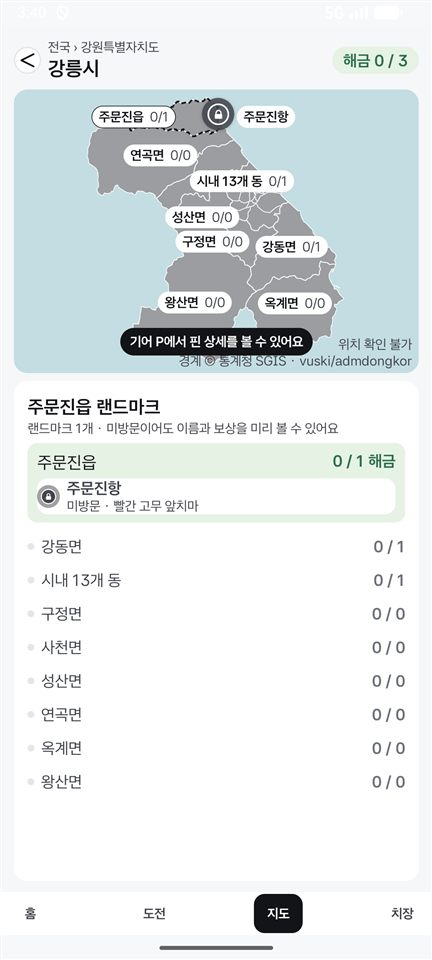
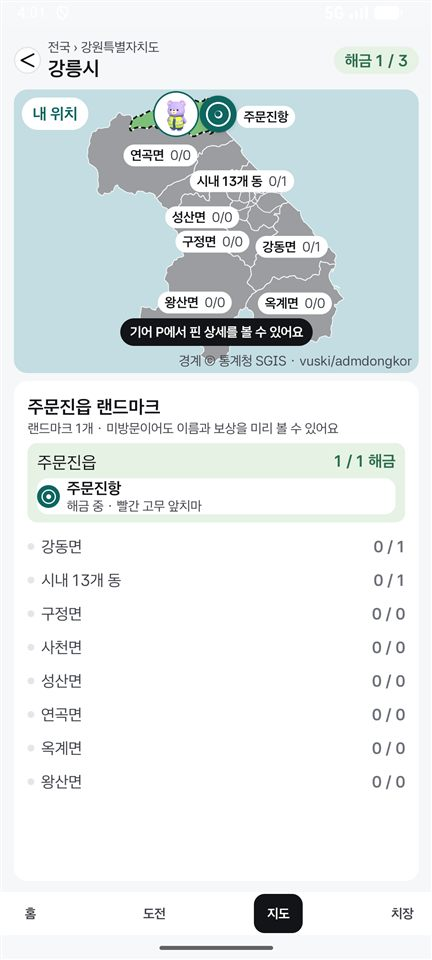
Keep map labels, hint and stop notice clear of each other
Review follow-ups: region labels now also avoid pin labels, the Full
hint hides while the detail card sits over it, the Split stop notice
sits above the attribution text, and the avatar keeps its spot while
that spot stays free so it does not jump as the car moves.

diff --git a/app/src/main/java/com/example/roro/ui/screens/MapScreen.kt b/app/src/main/java/com/example/roro/ui/screens/MapScreen.kt
@@ -597,12 +597,13 @@ private fun RegionMap(
                 }
             }
         }
-        val labels = remember(regions, district, camera, w, h, measurer, labelStyle, split, sceneId, overlays) {
+        val labels = remember(regions, district, camera, w, h, measurer, labelStyle, split, sceneId, overlays, pinLabels) {
             val gap = with(density) { KagomSpace.s4.toPx() }
             val inset = with(density) { KagomSpace.s10.toPx() }
             val radius = with(density) { 26.dp.toPx() }
             val placed = mutableListOf<RegionLabel>()
-            val keepClear = pinLocations.values.map { Rect(it - Offset(radius, radius), Size(radius * 2, radius * 2)) } + overlays
+            val keepClear = pinLocations.values.map { Rect(it - Offset(radius, radius), Size(radius * 2, radius * 2)) } +
+                pinLabels.map { it.rect } + overlays
             val ordered = regions.sortedWith(
                 compareByDescending<RegionProgress> { it.region.id == district?.region?.id }
                     .thenByDescending { it.landmarks.isNotEmpty() }
@@ -725,6 +726,7 @@ private fun RegionMap(
             val diameter = with(density) { 68.dp.toPx() }
             // 카곰은 위치점 둘레에서 이름표·핀·지도 위 글을 가리지 않는 첫 자리에 둔다 (위 → 옆 → 대각선 → 아래, 가까운 쪽부터).
             // 다 막혀 있으면 가장 덜 가리는 자리. 단계 이동 중에 자리가 바뀌지 않게 도착한 시점 기준으로 정한다
+            val lastShift = remember(camera) { arrayOfNulls<Offset>(1) }
             val avatarShift = remember(here, camera, w, h, labels, pinLabels, overlays) {
                 val at = point(here.lon.toFloat(), here.lat.toFloat())
                 val pinRadius = with(density) { 24.dp.toPx() }
@@ -737,11 +739,15 @@ private fun RegionMap(
                 )
                 // 둘째 거리는 위치점에 핀이 있을 때 그 핀 바깥이다 (차가 랜드마크에 도착한 경우). 셋째는 이름표가 몰린 곳에서 한 칸 더
                 val spots = listOf(near, near + pinRadius, near + 2 * pinRadius).flatMap { reach -> directions.map { it * reach } }
-                spots.minBy { shift ->
+                fun covered(shift: Offset): Float {
                     val box = Rect(at + shift, diameter / 2)
-                    if (box.left < 0f || box.top < 0f || box.right > w || box.bottom > h) Float.MAX_VALUE
-                    else blocked.filter { it.overlaps(box) }.map { it.intersect(box) }.sumOf { (it.width * it.height).toDouble() }.toFloat()
+                    if (box.left < 0f || box.top < 0f || box.right > w || box.bottom > h) return Float.MAX_VALUE
+                    return blocked.filter { it.overlaps(box) }.map { it.intersect(box) }
+                        .sumOf { (it.width * it.height).toDouble() }.toFloat()
                 }
+                val best = spots.minBy(::covered)
+                // 차가 움직이는 동안 카곰이 이리저리 튀지 않게, 쓰던 자리가 새로 고른 자리만큼 비어 있으면 그대로 둔다
+                (lastShift[0]?.takeIf { covered(it) <= covered(best) } ?: best).also { lastShift[0] = it }
             }
             Box(
                 Modifier.offset {
@@ -795,13 +801,16 @@ private fun RegionMap(
             if (locationStatus != null) Text(locationStatus, style = KagomType.Caption14, color = KagomColor.Text.secondary)
             Text(attribution, style = KagomType.Caption14, color = KagomColor.Text.secondary)
         }
-        if (!split) Text(
+        val reward = Items.byId(selectedPin?.landmark?.rewardItemId)
+        // 위쪽 핀의 상세 카드는 지도 아래쪽에 뜬다. 그동안은 안내 글을 숨긴다 (카드가 안내 글의 끝을 덮었다)
+        val detailOverHint = gearP && !moving && reward != null &&
+            selectedPin?.let { pinLocations.getValue(it.landmark.id).y < h / 2 } == true
+        if (!split && !detailOverHint) Text(
             hint, Modifier.align(Alignment.BottomStart).padding(KagomSpace.s24)
                 .background(KagomColor.Surface.inverse, RoundedCornerShape(KagomRadius.full))
                 .padding(horizontal = KagomSpace.s16, vertical = KagomSpace.s10),
             style = KagomType.Caption14, color = KagomColor.Text.inverse,
         )
-        val reward = Items.byId(selectedPin?.landmark?.rewardItemId)
         if (!moving && selectedPin != null && reward != null) {
             val pinOnLowerHalf = pinLocations.getValue(selectedPin.landmark.id).y >= h / 2
             val detailPosition = if (pinOnLowerHalf) {
@@ -821,9 +830,12 @@ private fun RegionMap(
                     itemId = reward.id,
                 )
             } else if (split) {
-                // Full은 왼쪽 아래 안내가 주행 중에 같은 말을 하고 있어 따로 띄우지 않는다 (둘이 겹쳐 보였다)
+                // Full은 왼쪽 아래 안내가 주행 중에 같은 말을 하고 있어 따로 띄우지 않는다 (둘이 겹쳐 보였다).
+                // 아래쪽에 뜰 때는 오른쪽 아래 위치 안내·출처 글(overlays의 첫 칸) 위로 올린다 (그 글과 겹쳤다)
+                val noticePosition = if (pinOnLowerHalf) detailPosition else Modifier.align(Alignment.BottomCenter)
+                    .padding(bottom = with(density) { overlays.first().height.toDp() } + KagomSpace.s4)
                 Text("기어 P에서 핀 상세를 볼 수 있어요",
-                    detailPosition
+                    noticePosition
                         .background(KagomColor.Surface.inverse, RoundedCornerShape(KagomRadius.full))
                         .padding(horizontal = 14.dp, vertical = 8.dp),
                     style = KagomType.Caption14Strong, color = KagomColor.Text.inverse)

diff --git a/docs/verification/map-overlap-pending-reward/README.md b/docs/verification/map-overlap-pending-reward/README.md
@@ -28,11 +28,13 @@
 - 전국·강원·강릉 지도에서 구획 이름표, 핀, 핀 이름표, 카곰, 지도 위 글이 서로 겹치지 않는다.
 - 주행 중(기어 D) 방문: 지도 핀·핀 이름표·목록이 모두 해금 중으로 나오고, 기어 P에서 POP-03을 닫으면 방문 완료로 바뀐다.
 - 주행 중 안내: Full은 왼쪽 아래 안내가 "기어 P에서 핀 상세를 볼 수 있어요. …"로 바뀌고 핀을 눌러도 다른 안내가 겹쳐 뜨지 않는다. Split은 지도에 안내 글이 없어 핀을 누르면 전처럼 정차 안내가 뜬다. 기어 P로 돌아오면 상세 카드가 열린다.
+- 코드 리뷰 뒤 고친 것 (2026-11-11 오후, 같은 에뮬레이터에서 다시 확인): 구획 이름표가 핀 이름표도 피한다. 기어 P에서 위쪽 핀의 상세 카드가 떠 있는 동안 Full 안내 글이 숨는다 (카드가 안내 글 끝을 덮었다). Split 정차 안내가 출처 글 위에 뜬다. 카곰은 쓰던 자리가 비어 있으면 옮기지 않는다 (이것은 코드로만 넣었고 움직이는 위치로 시험하지는 못했다).
 - 터치 범위: 뒤로 버튼과 경로 글자는 그림 바깥 12px 안쪽을 눌러도 동작한다 (`KagomTheme`이 누르는 범위를 64로 넓힌다). 그래서 이 둘의 크기는 바꾸지 않았다.
 
 ## 알려 둘 것
 
 - Split에서 차가 주문진항에 있으면 "주문진읍" 구획 이름표가 숨는다 ("내 위치" 버튼과 핀 사이에 자리가 없다). 구획 이름은 아래 목록 제목에 나온다. Split 지도가 좁아 이름표가 몰리는 문제는 #16의 4번에 남아 있다.
 - 이름표가 몰린 곳에서는 카곰이 위치점에서 조금 떨어진다 (전국 지도의 서울: 이름표 위).
-- 기어 P에서 위쪽 핀의 상세 카드(Full, 폭 520)가 왼쪽 아래 안내 글의 끝을 덮는다. 전부터 있던 것이고 이번에 고치지 않았다.
+- 목록의 "해금 중" 옆에 구획 숫자는 "1 / 1 해금", 지도 이름표는 "✓ 1/1"로 나온다. 숫자와 구획 색은 방문한 순간 바뀌는 것이 원래 동작이라 그대로 두었다.
+- Split에서 주행 중 정차 안내가 아래쪽 구획 이름표를 잠깐 덮을 수 있다 (출처 글과 겹치지 않게 위로 올렸다).
 - 못 본 것: 실차, Pleos Split(841×1210), 랜드마크가 여럿인 구획, 위치가 지도 가장자리에 있을 때.

diff --git a/docs/IMPLEMENTATION.md b/docs/IMPLEMENTATION.md
@@ -120,8 +120,9 @@
 ## 랜드마크 지도 (SCR-05)
 
 - Pleos FusedLocation 좌표에 현재 스킨·표정·장착 아이템을 반영한 카곰을 표시한다. 내 위치 버튼은 해당 시·군 지도로 이동한다. 위치를 확인할 수 없거나 좌표가 지도 범위 밖이면 안내를 표시한다. 좌표는 저장하지 않는다.
-- 카곰은 위치점 둘레(위 → 옆 → 대각선 → 아래, 가까운 쪽부터)에서 구획 이름표·핀·핀 이름표·지도 위 글을 가리지 않는 첫 자리에 둔다. 다 막혀 있으면 가장 덜 가리는 자리다. 차가 랜드마크에 도착해 위치점과 핀이 겹치면 핀 바깥에 둔다.
-- 구획 이름표는 핀과 지도 위 글·버튼(내 위치, 방위, 안내, 위치 안내·출처)의 자리를 피하고, 옮길 자리가 없으면 숨긴다.
+- 카곰은 위치점 둘레(위 → 옆 → 대각선 → 아래, 가까운 쪽부터)에서 구획 이름표·핀·핀 이름표·지도 위 글을 가리지 않는 첫 자리에 둔다. 다 막혀 있으면 가장 덜 가리는 자리다. 차가 움직이는 동안 이리저리 튀지 않게, 쓰던 자리가 새로 고른 자리만큼 비어 있으면 그대로 둔다. 차가 랜드마크에 도착해 위치점과 핀이 겹치면 핀 바깥에 둔다.
+- 구획 이름표는 핀, 핀 이름표, 지도 위 글·버튼(내 위치, 방위, 안내, 위치 안내·출처)의 자리를 피하고, 옮길 자리가 없으면 숨긴다.
+- 지도 아래쪽에 뜨는 것끼리 겹치지 않게: Full에서 위쪽 핀의 상세 카드가 아래에 떠 있는 동안은 왼쪽 아래 안내 글을 숨기고, Split의 정차 안내는 오른쪽 아래 위치 안내·출처 글 위에 띄운다.
 
 - 전국 지도에서 시·도를 선택하면 그 시·도의 시·군 지도, 시·군을 선택하면 구획 지도가 열린다. 지도와 목록에서 동일하게 선택할 수 있다. 상단 경로, 뒤로 가기, 지도에서 오므리기로 이전 단계로 돌아간다.
 - Full에서는 지도 오른쪽, Split에서는 Figma 기준 최대 420px 높이의 지도 아래에 지역별 해금 목록을 표시한다. 진행도는 실제 등록된 랜드마크와 방문 기록을 집계한다. 미해금은 회색, 일부 해금은 연두, 모두 해금은 초록, 선택된 구획은 점선 테두리다.
